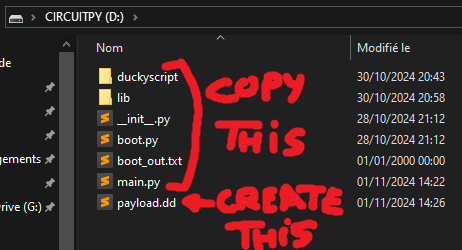
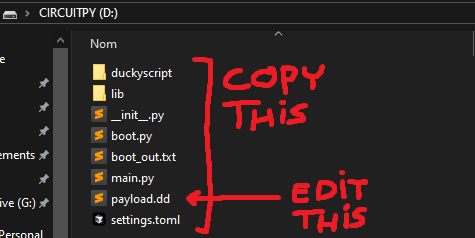
Feature/random chars (#21)
* Added random character generation commands to lexer

* Added random chars to parser

* Added random chars to interpreter and translated error messages to english

* Added interpreter for random letters

* Added instructions for random chars

* Changed docs as we added payload.dd and settings.toml

* Updated readme

* Added RANDOM_CHAR_FROM in the roadmap

* Reformated with black

diff --git a/rasper_ducky/duckyscript/interpreter.py b/rasper_ducky/duckyscript/interpreter.py
@@ -1,8 +1,10 @@
+import random
 import time
 
 from .keyboard import RasperDuckyKeyboard
 from .parser import (
     KeyPressStmt,
+    RandomCharStmt,
     VarStmt,
     Binary,
     Unary,
@@ -52,6 +54,15 @@ class Interpreter:
         Tok.OP_NOT: lambda l: not l,
     }
 
+    RANDOM_CHAR_SETS = {
+        "RANDOM_LOWERCASE_LETTER": "abcdefghijklmnopqrstuvwxyz",
+        "RANDOM_UPPERCASE_LETTER": "ABCDEFGHIJKLMNOPQRSTUVWXYZ",
+        "RANDOM_LETTER": "abcdefghijklmnopqrstuvwxyzABCDEFGHIJKLMNOPQRSTUVWXYZ",
+        "RANDOM_NUMBER": "0123456789",
+        "RANDOM_SPECIAL": "!@#$%^&*()",
+        "RANDOM_CHAR": "abcdefghijklmnopqrstuvwxyzABCDEFGHIJKLMNOPQRSTUVWXYZ0123456789!@#$%^&*()",
+    }
+
     def __init__(self):
         self.variables = {}
         self.functions = {}
@@ -85,10 +96,12 @@ class Interpreter:
             self._execute_kbd(node)
         elif isinstance(node, ExpressionStmt):
             self._execute_expression(node.expression)
+        elif isinstance(node, RandomCharStmt):
+            self._execute_random_char(node)
         elif isinstance(node, Literal):
             pass  # A literal is a value, nothing to execute
         else:
-            raise RuntimeError(f"Type de noeud inconnu : {type(node)}")
+            raise RuntimeError(f"Unknown node type: {type(node)}")
 
     def _execute_var_declaration(self, node: VarStmt):
         value = self._evaluate(node.value)
@@ -122,7 +135,7 @@ class Interpreter:
     def _execute_print_stringln(self, node: StringLnStmt):
         self.execution_stack.append(node.value.value)
         self.keyboard.type_string(node.value.value)
-        self.keyboard.press_key("ENTER")  # TODO: use Keycode.ENTER
+        self.keyboard.press_key("ENTER")
         self.keyboard.release_all()
 
     def _execute_delay(self, node: DelayStmt):
@@ -147,6 +160,12 @@ class Interpreter:
             node.platform.value.lower(), node.language.value.lower()
         )
 
+    def _execute_random_char(self, node: RandomCharStmt):
+        if node.type.value not in self.RANDOM_CHAR_SETS:
+            raise RuntimeError(f"Unknown random character set: {node.type.value}")
+        char_set = self.RANDOM_CHAR_SETS[node.type.value]
+        self.keyboard.type_string(random.choice(char_set))
+
     def _evaluate(self, node: Expr):
         if isinstance(node, Binary):
             return self._evaluate_expression(node)
@@ -158,7 +177,7 @@ class Interpreter:
             try:
                 return self.variables[node.name.value]
             except KeyError:
-                raise RuntimeError(f"Variable non définie : {node.name.value}")
+                raise RuntimeError(f"Undefined variable: {node.name.value}")
         elif isinstance(node, Assign):
             value = self._evaluate(node.value)
             self.variables[node.name.value] = value
@@ -168,9 +187,7 @@ class Interpreter:
         elif isinstance(node, Call):
             return self._execute_function_call(node)
         else:
-            raise RuntimeError(
-                f"Type de noeud inconnu pour l'évaluation : {type(node)}"
-            )
+            raise RuntimeError(f"Unknown node type for evaluation: {type(node)}")
 
     def _evaluate_expression(self, node: Binary):
         left = self._evaluate(node.left)
@@ -187,10 +204,10 @@ class Interpreter:
         elif operator.value == "=":
             return right
         else:
-            raise RuntimeError(f"Opérateur inconnu : {operator.value}")
+            raise RuntimeError(f"Unknown operator: {operator.value}")
 
     def _apply_unary_operator(self, operator: Token, value):
         if operator.type in self.UNARY_OPERATORS:
             return self.UNARY_OPERATORS[operator.type](value)
         else:
-            raise RuntimeError(f"Opérateur inconnu : {operator.value}")
+            raise RuntimeError(f"Unknown operator: {operator.value}")

diff --git a/tests/test_interpreter.py b/tests/test_interpreter.py
@@ -1,3 +1,4 @@
+from unittest.mock import call
 import pytest
 from rasper_ducky.duckyscript.interpreter import *
 from rasper_ducky.duckyscript.parser import *
@@ -255,7 +256,7 @@ def test_division_by_zero(interpreter):
 
 def test_unknown_operator(interpreter):
     ast = [Binary(Literal("1"), Token(2000, "unknown"), Literal("2"))]
-    with pytest.raises(RuntimeError, match="Opérateur inconnu"):
+    with pytest.raises(RuntimeError, match="Unknown operator: unknown"):
         interpreter.interpret(ast)
 
 
@@ -267,7 +268,7 @@ def test_undefined_variable(interpreter):
             Literal("2"),
         )
     ]
-    with pytest.raises(RuntimeError, match="Variable non définie"):
+    with pytest.raises(RuntimeError, match="Undefined variable: \$undefined"):
         interpreter.interpret(ast)
 
 
@@ -400,3 +401,21 @@ def test_kbd_statement(interpreter):
     interpreter.interpret(ast)
     assert interpreter.keyboard.platform == "win"
     assert interpreter.keyboard.language == "fr"
+
+
+def test_random_char_statement(interpreter, mocker):
+    mock_choice = mocker.patch("random.choice")
+
+    ast = [
+        RandomCharStmt(Token(Tok.RANDOM_CHAR, "RANDOM_LOWERCASE_LETTER")),
+        RandomCharStmt(Token(Tok.RANDOM_CHAR, "RANDOM_UPPERCASE_LETTER")),
+        RandomCharStmt(Token(Tok.RANDOM_CHAR, "RANDOM_LETTER")),
+        RandomCharStmt(Token(Tok.RANDOM_CHAR, "RANDOM_NUMBER")),
+        RandomCharStmt(Token(Tok.RANDOM_CHAR, "RANDOM_SPECIAL")),
+        RandomCharStmt(Token(Tok.RANDOM_CHAR, "RANDOM_CHAR")),
+    ]
+    interpreter.interpret(ast)
+    assert mock_choice.call_count == len(Interpreter.RANDOM_CHAR_SETS)
+
+    for value in Interpreter.RANDOM_CHAR_SETS.values():
+        mock_choice.assert_any_call(value)

diff --git a/rasper_ducky/duckyscript/parser.py b/rasper_ducky/duckyscript/parser.py
@@ -166,6 +166,14 @@ class FunctionStmt(Stmt):
         return f"FUNCTION({self.name}, {self.body})"
 
 
+class RandomCharStmt(Stmt):
+    def __init__(self, type: Token):
+        self.type = type
+
+    def __repr__(self):
+        return f"RANDOM_CHAR({self.type})"
+
+
 class Parser:
     def __init__(self, tokens: list[Token]):
         self.tokens = tokens
@@ -201,6 +209,8 @@ class Parser:
             return self.function_stmt()
         elif self.match(Tok.KEYPRESS):
             return self.keypress_stmt()
+        elif self.match(Tok.RANDOM_CHAR):
+            return self.random_char_stmt()
 
         return self.expression_stmt()
 
@@ -274,7 +284,7 @@ class Parser:
         return WhileStmt(condition, body)
 
     def function_stmt(self) -> FunctionStmt:
-        name = self.consume(Tok.IDENTIFIER, "Expected an identifier after FUNCTION")
+        name = self.consume(Tok.IDENTIFIER, "Expected an identifier after 'FUNCTION'")
         self.consume(Tok.LPAREN, "Expected '(' after function name")
         self.consume(Tok.RPAREN, "Expected ')' after function parameters")
         self.consume(Tok.EOL, "Expected a line break after the function parameters")
@@ -282,6 +292,11 @@ class Parser:
         self.consume(Tok.END_FUNCTION, "Expected 'END_FUNCTION'")
         self.consume_termination("Expected a line break after 'END_FUNCTION'")
         return FunctionStmt(name, body)
+
+    def random_char_stmt(self) -> RandomCharStmt:
+        type = self.previous()
+        self.consume_termination(f"Expected a line break after '{type.value}'")
+        return RandomCharStmt(type)
 
     def block(self) -> list[Stmt]:
         statements = []

diff --git a/tests/test_parser.py b/tests/test_parser.py
@@ -423,3 +423,30 @@ def test_kbd_statement(parser):
         KbdStmt(Token(Tok.RD_KBD_PLATFORM, "WIN"), Token(Tok.RD_KBD_LANGUAGE, "FR"))
     ]
     assert ast == expected_ast
+
+
+def test_random_commands(parser):
+    tokens = [
+        Token(Tok.RANDOM_CHAR, "RANDOM_LOWERCASE_LETTER"),
+        Token(Tok.EOL),
+        Token(Tok.RANDOM_CHAR, "RANDOM_UPPERCASE_LETTER"),
+        Token(Tok.EOL),
+        Token(Tok.RANDOM_CHAR, "RANDOM_LETTER"),
+        Token(Tok.EOL),
+        Token(Tok.RANDOM_CHAR, "RANDOM_NUMBER"),
+        Token(Tok.EOL),
+        Token(Tok.RANDOM_CHAR, "RANDOM_SPECIAL"),
+        Token(Tok.EOL),
+        Token(Tok.RANDOM_CHAR, "RANDOM_CHAR"),
+        Token(Tok.EOF),
+    ]
+    ast = parser(tokens).parse()
+    expected_ast = [
+        RandomCharStmt(Token(Tok.RANDOM_CHAR, "RANDOM_LOWERCASE_LETTER")),
+        RandomCharStmt(Token(Tok.RANDOM_CHAR, "RANDOM_UPPERCASE_LETTER")),
+        RandomCharStmt(Token(Tok.RANDOM_CHAR, "RANDOM_LETTER")),
+        RandomCharStmt(Token(Tok.RANDOM_CHAR, "RANDOM_NUMBER")),
+        RandomCharStmt(Token(Tok.RANDOM_CHAR, "RANDOM_SPECIAL")),
+        RandomCharStmt(Token(Tok.RANDOM_CHAR, "RANDOM_CHAR")),
+    ]
+    assert ast == expected_ast

diff --git a/tests/test_lexer.py b/tests/test_lexer.py
@@ -371,3 +371,30 @@ def test_kbd_commands():
         Token(Tok.RD_KBD_LANGUAGE, "FR", 1, 12),
         Token(Tok.EOF),
     ]
+
+
+def test_random_commands():
+    code = """
+RANDOM_LOWERCASE_LETTER
+RANDOM_UPPERCASE_LETTER
+RANDOM_LETTER
+RANDOM_NUMBER
+RANDOM_SPECIAL
+RANDOM_CHAR
+"""
+    tokens = list(lexer(code).tokenize())
+    assert tokens == [
+        Token(Tok.RANDOM_CHAR, "RANDOM_LOWERCASE_LETTER", 2, 1),
+        Token(Tok.EOL),
+        Token(Tok.RANDOM_CHAR, "RANDOM_UPPERCASE_LETTER", 3, 1),
+        Token(Tok.EOL),
+        Token(Tok.RANDOM_CHAR, "RANDOM_LETTER", 4, 1),
+        Token(Tok.EOL),
+        Token(Tok.RANDOM_CHAR, "RANDOM_NUMBER", 5, 1),
+        Token(Tok.EOL),
+        Token(Tok.RANDOM_CHAR, "RANDOM_SPECIAL", 6, 1),
+        Token(Tok.EOL),
+        Token(Tok.RANDOM_CHAR, "RANDOM_CHAR", 7, 1),
+        Token(Tok.EOL),
+        Token(Tok.EOF),
+    ]

diff --git a/rasper_ducky/duckyscript/lexer.py b/rasper_ducky/duckyscript/lexer.py
@@ -16,6 +16,8 @@ class Tok:
 
     WAIT_FOR_BUTTON_PRESS = "WAIT_FOR_BUTTON_PRESS"
 
+    RANDOM_CHAR = "RANDOM_CHAR"
+
     ATTACKMODE = "ATTACKMODE"
     HID = "HID"
     STORAGE = "STORAGE"
@@ -124,6 +126,12 @@ class Lexer:
         "STRING": Tok.PRINTSTRING,
         "STRINGLN": Tok.PRINTSTRINGLN,
         "WAIT_FOR_BUTTON_PRESS": Tok.WAIT_FOR_BUTTON_PRESS,
+        "RANDOM_LOWERCASE_LETTER": Tok.RANDOM_CHAR,
+        "RANDOM_UPPERCASE_LETTER": Tok.RANDOM_CHAR,
+        "RANDOM_LETTER": Tok.RANDOM_CHAR,
+        "RANDOM_NUMBER": Tok.RANDOM_CHAR,
+        "RANDOM_SPECIAL": Tok.RANDOM_CHAR,
+        "RANDOM_CHAR": Tok.RANDOM_CHAR,
         "ATTACKMODE": Tok.ATTACKMODE,
         "HID": Tok.HID,
         "STORAGE": Tok.STORAGE,

diff --git a/tests/test_end_to_end.py b/tests/test_end_to_end.py
@@ -286,3 +286,23 @@ def test_define_statement(mock_type_string):
     )
     assert mock_type_string.call_count == 1
     mock_type_string.assert_called_with("A")
+
+
+def test_random_char_statement(mocker):
+    mock_choice = mocker.patch("random.choice")
+
+    execute(
+        """
+        RANDOM_LOWERCASE_LETTER
+        RANDOM_UPPERCASE_LETTER
+        RANDOM_LETTER
+        RANDOM_NUMBER
+        RANDOM_SPECIAL
+        RANDOM_CHAR
+    """
+    )
+
+    assert mock_choice.call_count == len(Interpreter.RANDOM_CHAR_SETS)
+
+    for value in Interpreter.RANDOM_CHAR_SETS.values():
+        mock_choice.assert_any_call(value)

diff --git a/README.md b/README.md
@@ -40,7 +40,7 @@ This project aims to provide an open-source implementation of DuckyScript3, a sc
 
 #### Install the rasper-ducky library
 - Connect your Raspberry Pi Pico to your computer and copy/paste the content of the `rasper_ducky` folder to the `CIRCUITPY` drive.
-- Create a new file named `payload.dd` at the root of the `CIRCUITPY` drive containing your DuckyScript3 script.
+- Edit the `payload.dd` file at the root of the `CIRCUITPY` drive to change the payload.
 <p align="center">
   <img src="docs/img/tuto-add-files-to-pico.png" alt="Add files to Pico">
 </p>
@@ -72,7 +72,6 @@ hello_world()
   <img src="docs/img/tuto-have-fun.png" alt="Have fun">
 </p>
 
-
 ## Debugging
 
 To debug the script, connect to the Raspberry Pi Pico 2 using Putty or similar and use the serial console. I've seen ports up to COM8 on my computer so try them all until you find the correct one.
@@ -103,16 +102,26 @@ There are some choices in the DuckyScript3 language that I dislike and may want 
   - **No need for VAR**: No need to declare variables before using them, just use them directly : `$x = 10` is equivalent to `VAR $x = 10`
 
 ## Roadmap
-
 - [ ] Complete the roadmap
+- [ ] Derecursify parts of the parser to limit stack overflows
 - [ ] Complete 1-to-1 DuckyScript3 implementation
   - [ ] `WAIT_FOR_BUTTON_PRESS`
   - [ ] `BUTTON_DEF`
-  - [ ] `LED_R` / `LED_G` (only one green led on the Raspberry Pi Pico 2)
-  - [ ] `RANDOM_LOWERCASE_LETTER`, `RANDOM_UPPERCASE_LETTER`, `RANDOM_LETTER`, `RANDOM_NUMBER`, `RANDOM_CHAR`
+  - [ ] `LED_R` / `LED_G` (only one green led on the Raspberry Pi Pico)
+  - [x] `RANDOM_LOWERCASE_LETTER`, `RANDOM_UPPERCASE_LETTER`, `RANDOM_LETTER`, `RANDOM_NUMBER`, `RANDOM_SPECIAL`, `RANDOM_CHAR`
   - [ ] `HOLD` / `RELEASE`
   - [ ] `RESTART_PAYLOAD` / `STOP_PAYLOAD`
 - [ ] Improve error handling and debugging features
+- [ ] Custom backward compatible features
+  - [ ] Pass a variable to `DELAY`
+  - [ ] Pass a variable to `STRING` and `STRINGLN`
+  - [ ] Add support for `#` comments
+  - [ ] Prevent the user from shadowing a keyword with a `DEFINE`
+  - [ ] Add a `CONTINUE` and a `BREAK` statement to loops
+  - [ ] Add a `PRINT` statement to debug scripts
+  - [ ] Add a `RANDOM_CHAR_FROM` instruction to generate random characters from a given string
+- [ ] Custom backward incompatible features
+  - [ ] Scope variables
 
 
 ## Thanks

diff --git a/docs/INSTRUCTIONS.md b/docs/INSTRUCTIONS.md
@@ -9,6 +9,7 @@ This document provides detailed documentation for all supported DuckyScript3 ins
 - [Constants](#constants)
 - [Keyboard Commands](#keyboard-commands)
 - [Operators](#operators)
+- [Random Characters](#random-characters)
 
 ## Variables
 
@@ -233,3 +234,21 @@ IF !($x == 0) THEN
     STRING X is not zero
 END_IF
 ```
+
+### Random Characters
+
+The `RANDOM_CHAR` instruction allows you to generate random characters from specified sets, including lowercase letters, uppercase letters, numbers, special characters, or a combination of these. These instructions can be used to introduce randomness into your scripts, useful for tasks like generating random passwords or obfuscating text.
+
+```duckyscript
+$x = 0
+WHILE ($x < 10)
+    RANDOM_LOWERCASE_LETTER
+    RANDOM_UPPERCASE_LETTER
+    RANDOM_LETTER
+    RANDOM_NUMBER
+    RANDOM_SPECIAL
+    RANDOM_CHAR
+    $x = $x + 1
+END_WHILE
+```
+Will output something like : `hDz4)6mSl7)EyZN0#AfXW8*8aGf6)ZkZX3%8jJe3&@fKH7*1wEu0)JfAo3$R`
